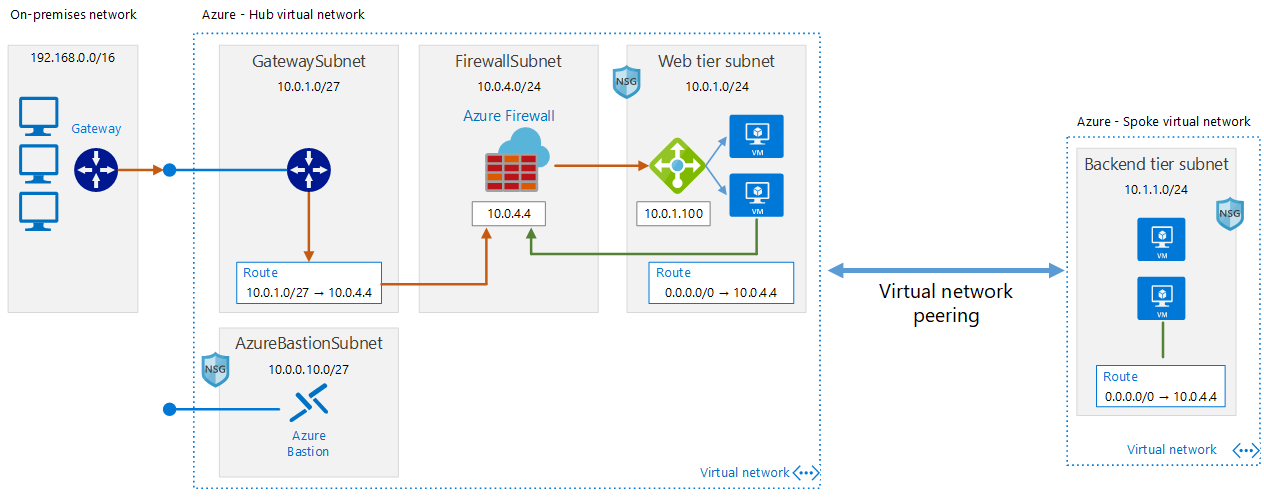
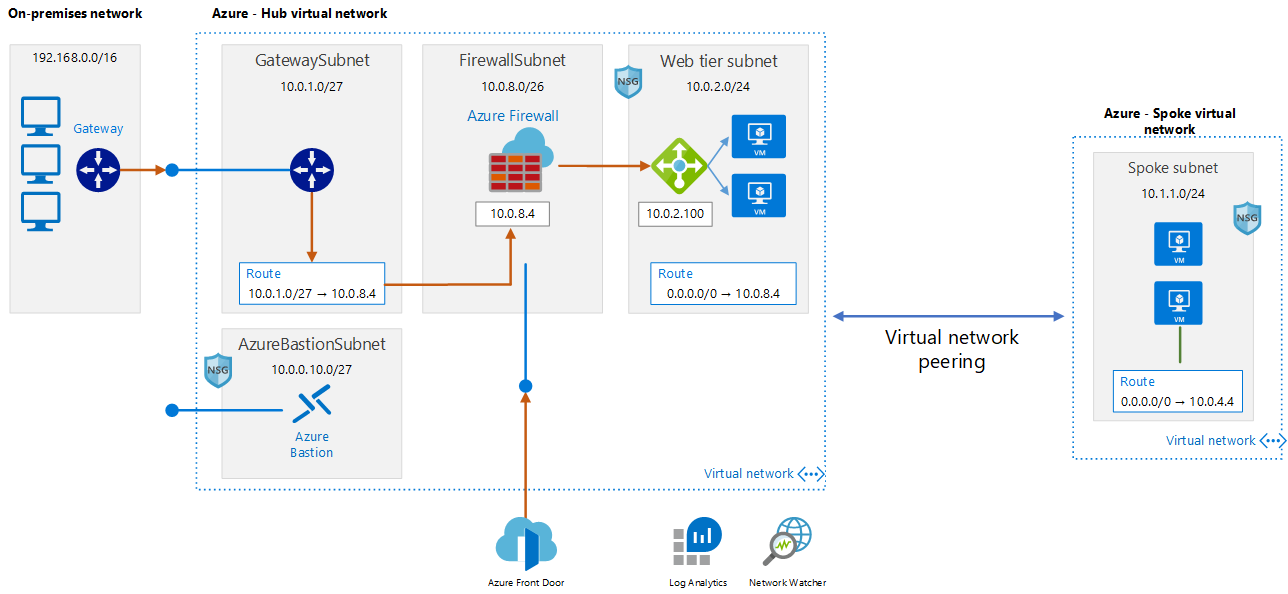
commit

diff --git a/Network/basic-networking/README.md b/Network/basic-networking/README.md
@@ -55,13 +55,13 @@ Virtual Network documentation</br>
 ** Virtual Network - HUB **
 az group create --name networking-handson-rg --location eastus2
 az network vnet create --resource-group networking-handson-rg --name hubvnet --location eastus2 --address-prefixes 10.0.0.0/16 --subnet-name GatewaySubnet --subnet-prefix 10.0.1.0/27
-az network vnet subnet create --address-prefix 10.0.2.0/24 --name managementsubnet --resource-group networking-handson-rg --vnet-name hubvnet
+az network vnet subnet create --address-prefix 10.0.2.0/24 --name websubnet --resource-group networking-handson-rg --vnet-name hubvnet
+az network vnet subnet create --address-prefix 10.0.8.0/26 --name AzureFirewallSubnet --resource-group networking-handson-rg --vnet-name hubvnet
 ```
 
 ```Azure CLI
 ** Virtual Network - SPOKE **
-az network vnet create --resource-group networking-handson-rg --name spokevnet --location eastus2 --address-prefixes 10.1.0.0/16 --subnet-name websubnet
---subnet-prefix 10.1.1.0/24
+az network vnet create --resource-group networking-handson-rg --name spokevnet --location eastus2 --address-prefixes 10.1.0.0/16 --subnet-name spokesubnet --subnet-prefix 10.1.1.0/24
 ```
 
 ```Azure CLI
